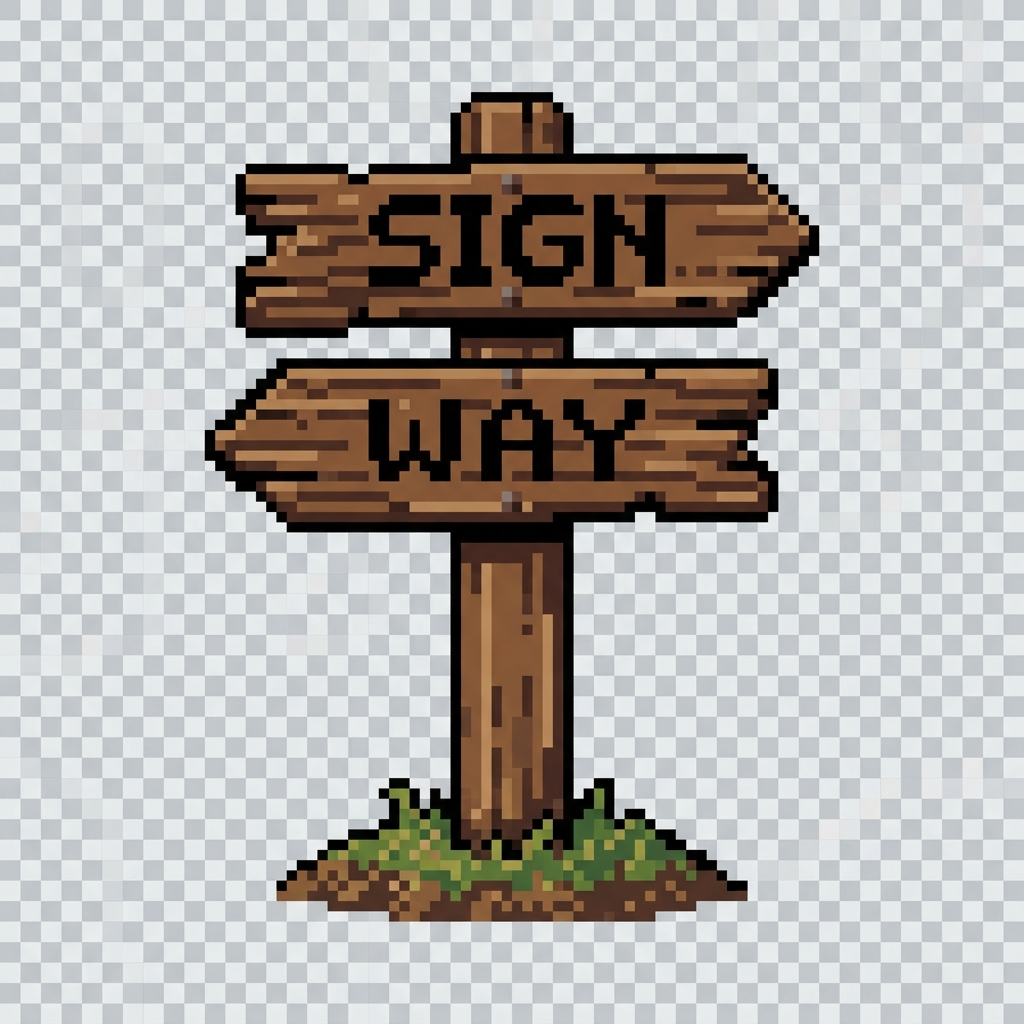
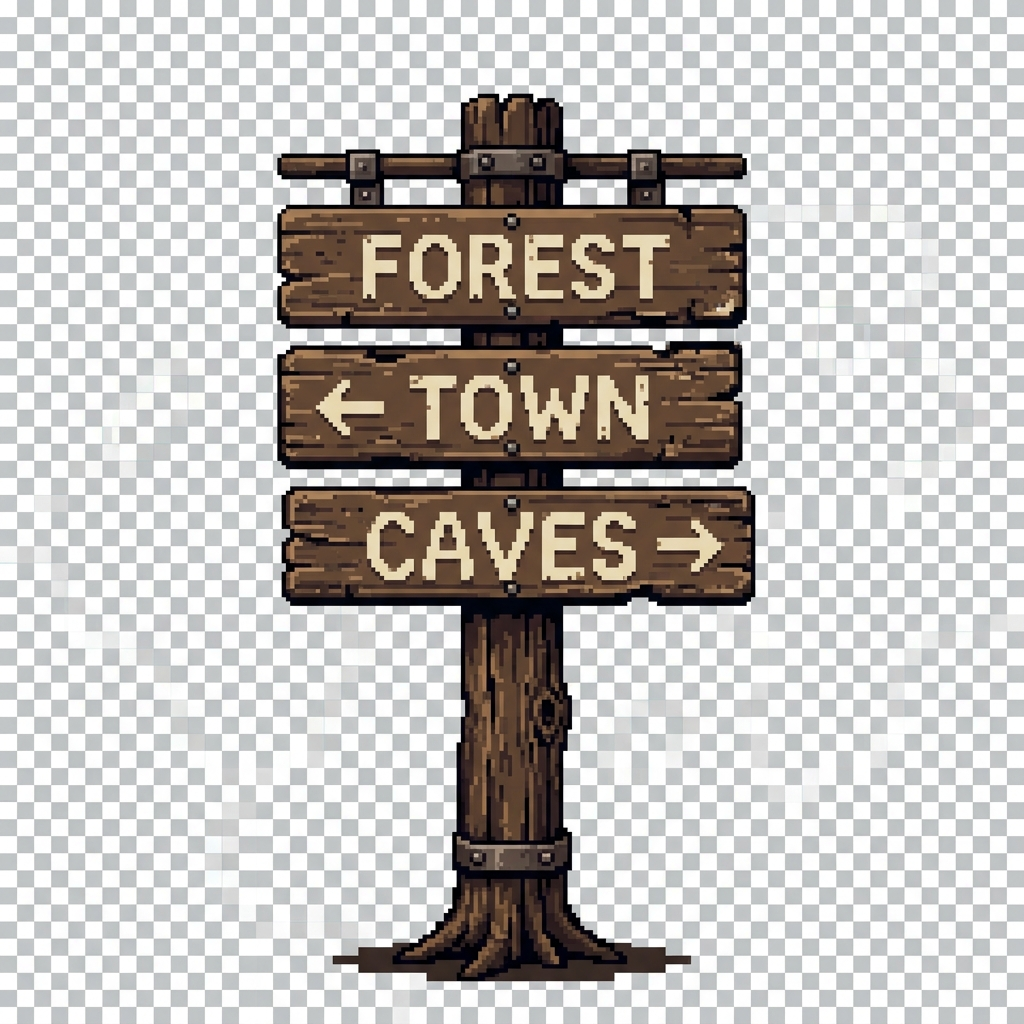
update

diff --git a/src/level_manager.py b/src/level_manager.py
@@ -252,6 +252,7 @@ class LevelManager:
         self.font_card_name = _load_font("Georgia", int(28 * SCALE_UNIFORM))
         self.font_meta   = _load_font("Arial", int(14 * SCALE_UNIFORM))
         self.font_hint   = _load_font("Arial", int(16 * SCALE_UNIFORM))
+        self.font_copy   = _load_font("Arial", int(16 * SCALE_UNIFORM))
 
         self.progress_file = "progress.json"
         self.completed_levels = self.load_progress()
@@ -351,137 +352,7 @@ class LevelManager:
             "Expert": (255, 80, 120),
         }.get(diff, (160, 160, 160))
 
-    def draw(self):
-        _draw_bg(self.screen, self.t)
-
-        # Particles
-        self.particles = [p for p in self.particles if p.update()]
-        while len(self.particles) < 60:
-            self.particles.append(Particle(self.w, self.h))
-        for p in self.particles:
-            p.draw(self.screen)
-
-        cx = self.w // 2
-
-        # ── Title ──
-        _draw_text_glow(self.screen, self.font_title, "SELECT LEVEL",
-                        cx, int(self.h * 0.06),
-                        (255, 248, 240), (160, 90, 255))
-
-        # Divider under title
-        title_h = self.font_title.size("SELECT LEVEL")[1]
-        div_y = int(self.h * 0.06) + title_h + 10
-        for dx in range(-200, 201, 3):
-            alpha = int(140 * (1 - abs(dx) / 200))
-            s = pygame.Surface((3, 2), pygame.SRCALPHA)
-            s.fill((180, 120, 255, alpha))
-            self.screen.blit(s, (cx + dx, div_y))
-
-        # ── Cards ──
-        top_y = div_y + 22
-        cw, ch = self._card_w, self._card_h
-        gap = self._card_gap
-
-        if len(self.menu_items) > self.visible_items:
-            self.scroll_offset = max(0, self.selected_index - self.visible_items + 1) \
-                if self.selected_index >= self.visible_items else 0
-
-        for i, item in enumerate(self.menu_items):
-            if i < self.scroll_offset or i >= self.scroll_offset + self.visible_items:
-                continue
-            di = i - self.scroll_offset
-            card_y = top_y + di * (ch + gap)
-
-            is_sel = (i == self.selected_index)
-            is_unlocked = self._is_unlocked(i)
-
-            # Hover animation
-            target = 1.0 if is_sel else 0.0
-            self.hover_progress[i] += (target - self.hover_progress[i]) * 0.18
-            hv = self.hover_progress[i]
-
-            lift = int(-7 * hv)
-            card_rect = pygame.Rect(cx - cw//2, card_y + lift, cw, ch)
-
-            self._draw_card(card_rect, item, i, is_sel, is_unlocked, hv)
-
-        # ── Bottom hint ──
-        hint = "↑↓ Navigate   ENTER Select   ESC Back"
-        hint_surf = self.font_copy.render(hint, True, (110, 95, 140))
-        self.screen.blit(hint_surf, hint_surf.get_rect(center=(cx, self.h - 24)))
-
-        pygame.display.flip()
-
-    def _draw_card(self, rect, item, index, is_sel, is_unlocked, hv):
-        x, y, w, h = rect
-
-        # Card background surface
-        card_surf = pygame.Surface((w, h), pygame.SRCALPHA)
-
-        if not is_unlocked:
-            bg1, bg2 = (40, 35, 55), (35, 30, 48)
-        elif is_sel:
-            bg1 = (70, 45, 130)
-            bg2 = (95, 60, 170)
-        else:
-            bg1 = (38, 28, 62)
-            bg2 = (50, 38, 80)
-
-        # Gradient fill
-        for row in range(h):
-            ratio = row / h
-            r = int(bg1[0] * (1-ratio) + bg2[0] * ratio)
-            g = int(bg1[1] * (1-ratio) + bg2[1] * ratio)
-            b = int(bg1[2] * (1-ratio) + bg2[2] * ratio)
-            pygame.draw.line(card_surf, (r, g, b), (0, row), (w, row))
-
-        # Glow border
-        border_col = (200, 140, 255) if is_sel else (90, 70, 130)
-        border_w = 2 + int(hv)
-        pygame.draw.rect(card_surf, border_col, (0, 0, w, h), border_w, border_radius=8)
-
-        # Inner shimmer on selected
-        if hv > 0.1:
-            shimmer = pygame.Surface((w, h), pygame.SRCALPHA)
-            pygame.draw.rect(shimmer, (180, 120, 255, int(20 * hv)), (0, 0, w, h), border_radius=8)
-            card_surf.blit(shimmer, (0, 0))
-
-        self.screen.blit(card_surf, (x, y))
-
-        # ── Text content ──
-        pad = 22
-        text_col = (255, 255, 255) if is_unlocked else (100, 90, 120)
-
-        name_surf = self.font_item.render(item["display_name"], True, text_col)
-        self.screen.blit(name_surf, (x + pad, y + 12))
-
-        if item.get("difficulty"):
-            diff_col = self._diff_color(item["difficulty"]) if is_unlocked else (80, 75, 100)
-            stars = {"Easy": "★", "Normal": "★★", "Hard": "★★★", "Expert": "★★★★"}.get(item["difficulty"], "")
-            diff_surf = self.font_meta.render(f"{stars}  {item['difficulty']}", True, diff_col)
-            self.screen.blit(diff_surf, (x + pad, y + h - diff_surf.get_height() - 10))
-
-        # Completed badge
-        if not item.get("is_editor") and not item.get("is_special_mode") \
-                and item["filename"] in self.completed_levels:
-            badge = self.font_status.render("✓ DONE", True, (80, 240, 120))
-            self.screen.blit(badge, badge.get_rect(midright=(x + w - pad, y + h//2)))
-
-        # Lock
-        if not is_unlocked:
-            lock = self.font_item.render("🔒 LOCKED", True, (180, 120, 80))
-            self.screen.blit(lock, lock.get_rect(center=(x + w//2, y + h//2)))
-
-        # Selection arrow
-        if is_sel:
-            ax = x - 20
-            ay = y + h // 2
-            pulse = int(4 * math.sin(self.t * 4))
-            pygame.draw.polygon(self.screen, (220, 160, 255), [
-                (ax + pulse, ay),
-                (ax - 10 + pulse, ay - 7),
-                (ax - 10 + pulse, ay + 7)
-            ])
+    # Removed duplicate draw and _draw_card methods
 
     # ── Input ─────────────────────────────────
     def handle_input(self):

diff --git a/src/game_states.py b/src/game_states.py
@@ -163,6 +163,7 @@ class PlayingState(GameState):
 
     def _create_fixed_level(self):
         for seg in self.world_data:
+            self._decorate_segment(seg)
             for ob_data in seg.get("obstacles", []): 
                 self._create_obstacle_sprite(ob_data)
 
@@ -173,10 +174,27 @@ class PlayingState(GameState):
         terrain_type = pattern.get("type", "straight")
         terrain_func = getattr(TerrainGenerator, terrain_type, TerrainGenerator.straight)
         segment = terrain_func(self.cursor_x, pattern)
+        self._decorate_segment(segment)
         for ob_data in segment.get("obstacles", []): 
             self._create_obstacle_sprite(ob_data)
         self.active_segments.append(segment)
         self.cursor_x += segment["length"]
+
+    def _decorate_segment(self, segment):
+        """Automatically add random background decorations to platforms"""
+        from terrain import Obstacle
+        platforms = segment.get("platforms", [segment.get("platform")])
+        for p in platforms:
+            if not p or p.length < 100: continue
+            
+            # Reduce density: ~1 decor per 400 units
+            num_decors = int(p.length // 400) + (1 if random.random() < 0.3 else 0)
+            for _ in range(num_decors):
+                dx = random.randint(30, int(p.length) - 30)
+                # Use individual decor assets instead of a sprite sheet
+                decor_type = random.choice(["decor_bush", "decor_grass", "decor_rock", "pillar"])
+                ob_obj = Obstacle(p.x + dx, p.y, kind="decor", sprite_type=decor_type)
+                self._create_obstacle_sprite(ob_obj)
         
     def _create_obstacle_sprite(self, ob_data):
         # Determine kind (real, fake, or decor)

diff --git a/src/config.py b/src/config.py
@@ -42,11 +42,11 @@ GROUND_Y = SCREEN_H - GROUND_MARGIN_FROM_BOTTOM
 # ============================================
 PLAYER_W = int(33 * SCALE_UNIFORM)
 PLAYER_H = int(54 * SCALE_UNIFORM)
-JUMP_V = -20 * SCALE_UNIFORM
-DOUBLE_JUMP_V = -20 * SCALE_UNIFORM
-GRAVITY = 1.0 * SCALE_UNIFORM
-RUN_SPEED = 5.5 * SCALE_UNIFORM
-WALK_SPEED = 8.0 * SCALE_UNIFORM  # Manual movement speed
+JUMP_V = -16 * SCALE_UNIFORM
+DOUBLE_JUMP_V = -16 * SCALE_UNIFORM
+GRAVITY = 0.8 * SCALE_UNIFORM
+RUN_SPEED = 4.0 * SCALE_UNIFORM
+WALK_SPEED = 5.5 * SCALE_UNIFORM  # Manual movement speed
 
 
 
@@ -55,7 +55,7 @@ WALK_SPEED = 8.0 * SCALE_UNIFORM  # Manual movement speed
 # ============================================
 SPEED_INCREASE_RATE = 0.2 * SCALE_UNIFORM
 MAX_RUN_SPEED = 15 * SCALE_UNIFORM
-SAFE_ZONE_DISTANCE = int(1200 * SCALE_X)
+SAFE_ZONE_DISTANCE = int(400 * SCALE_X)
 
 # ============================================
 # WALL JUMP PHYSICS (Scaled)

diff --git a/game.py b/game.py
@@ -1,8 +1,12 @@
 import pygame
+from pathlib import Path
 import sys
 import os
 
-sys.path.append(os.path.join(os.path.dirname(os.path.abspath(__file__)), "src"))
+# Add the 'src' directory to sys.path to allow importing modules from it
+src_path = str(Path(__file__).resolve().parent / "src")
+if src_path not in sys.path:
+    sys.path.insert(0, src_path)
 
 from config import SCREEN_W, SCREEN_H, FPS
 from main import Game

diff --git a/src/decoy_manager.py b/src/decoy_manager.py
@@ -74,7 +74,7 @@ def load_decoys():
         filepath = os.path.join(decoys_dir, filename)
         decoy_name = os.path.splitext(filename)[0]
         try:
-            num_frames, frame_width, frame_height, sheet_type = _detect_sprite_frames(filepath)
+            num_frames, frame_width, frame_height, sheet_type, extra_data = detect_sprite_frames(filepath)
             spritesheet = pygame.image.load(filepath).convert_alpha()
             cropped_frames = []
             for i in range(num_frames):
@@ -112,7 +112,9 @@ DECOY_CONFIGS = {
     'wall': {'scale': 0.4, 'use_static_frame': True, 'y_offset': 28},
     'warrior': {'scale': 2.4, 'use_static_frame': True},
     'column': {'scale': 1.0, 'use_static_frame': True, 'y_offset': 0},
-    'lore_popup': {'scale': 1.0, 'use_static_frame': True, 'y_offset': 0}
+    'decor_bush': {'scale': 0.08, 'use_static_frame': True, 'y_offset': 0},
+    'decor_grass': {'scale': 0.06, 'use_static_frame': True, 'y_offset': 0},
+    'decor_rock': {'scale': 0.05, 'use_static_frame': True, 'y_offset': 0}
 }
 
 def get_decoy_config(decoy_name):

diff --git a/src/__init__.py b/src/__init__.py
@@ -1,0 +1,1 @@
+# src package